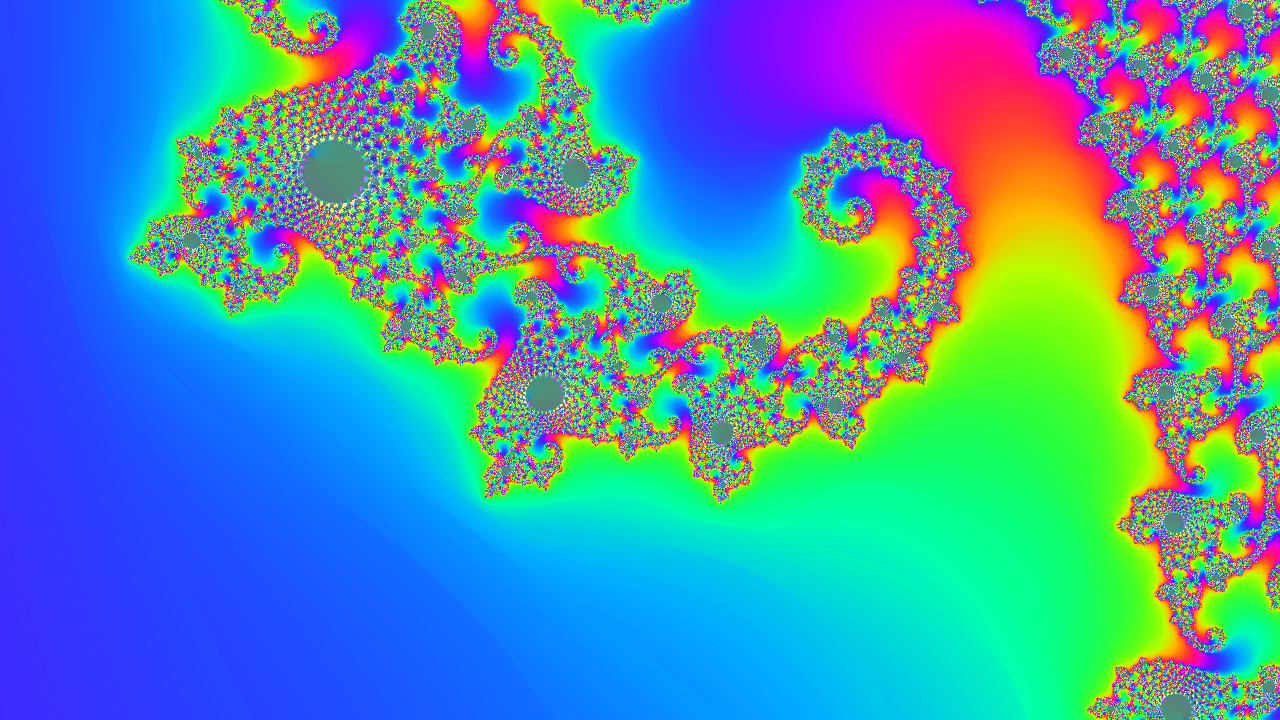
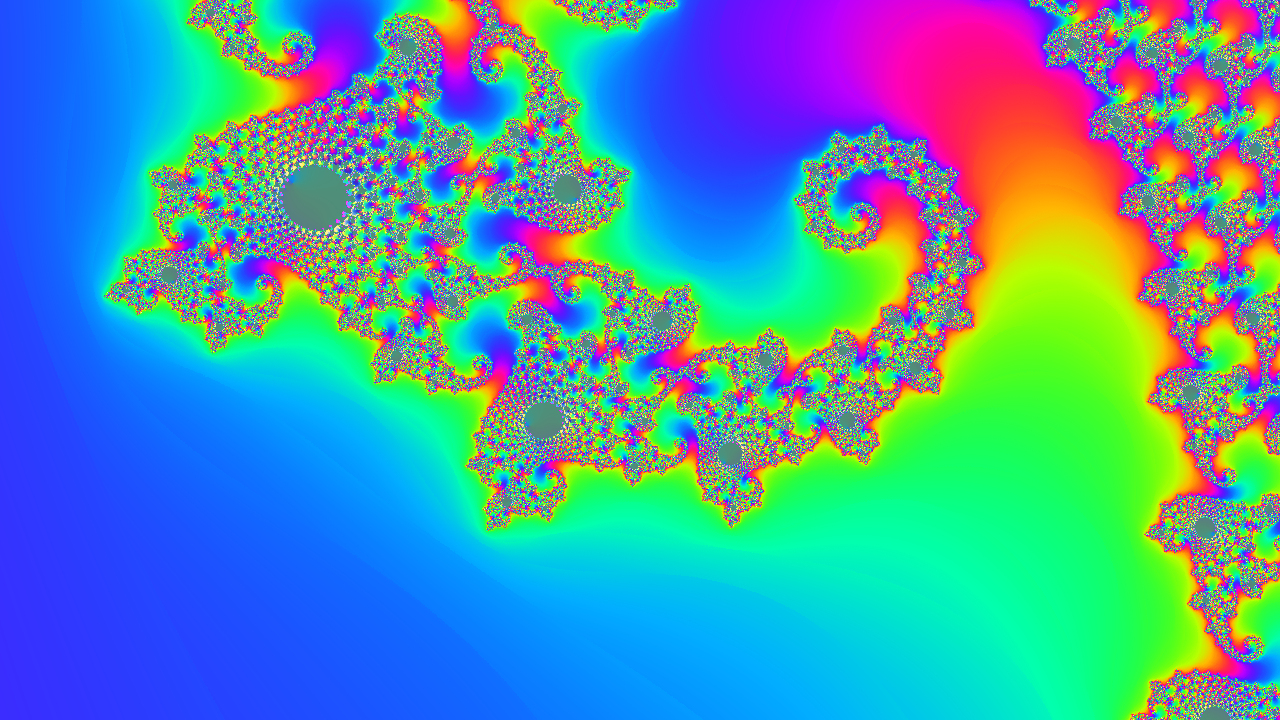
feat(cosmic-infinity): fluent 3-phase camera transition with straight zoom-out maintaining FOV and gentle overview realignment

diff --git a/src/shaders_cosmic_mandelbrot.rs b/src/shaders_cosmic_mandelbrot.rs
@@ -38,15 +38,16 @@ vec2 get_target_c(int id) {
 void main() {
     vec2 uv = (gl_FragCoord.xy - 0.5 * u_resolution) / min(u_resolution.x, u_resolution.y);
 
-    // Deep multi-target fractal zoom trajectory with staged dynamic rotation & continuous filament tracking:
-    // Dynamic 1x speed:
-    // Phase 1 (Zoom-In): 24.0s plunge (1x -> 64,000x), stopping gradually with C1 easing and multi-stage rotation speeds
-    // Phase 2 (Zoom-Out): 8.0s exponential acceleration with sigmoid easing return (64,000x -> 1x)
+    // Multi-target deep Mandelbrot fractal plunge & overview transition cycle:
     // Total cycle period = 32.0s
+    // Phase 1 (Zoom-In): 20.0s plunge (1x -> 64,000x) into c_curr, stopping smoothly with C1 easing and multi-stage rotation speeds
+    // Phase 2 (Zoom-Out): 7.0s straight zoom-out (64,000x -> 1x) strictly maintaining the FOV, center, and orientation of c_curr
+    // Phase 3 (Overview Alignment): 5.0s at 1x overview slowly and with ease adjusting rotation (3.4 -> 2*PI) and position (c_curr -> c_next)
     // Note: Zoom is calibrated to 64,000x to maintain absolute razor sharpness without FP16 block quantization rectangles!
-    const float T_IN = 24.0;
-    const float T_OUT = 8.0;
-    const float PERIOD = T_IN + T_OUT; // 32.0s
+    const float T_IN = 20.0;
+    const float T_OUT = 7.0;
+    const float T_ALIGN = 5.0;
+    const float PERIOD = T_IN + T_OUT + T_ALIGN; // 32.0s
 
     float cycle_idx = floor(u_time / PERIOD);
     float cycle_time = mod(u_time, PERIOD);
@@ -54,10 +55,16 @@ void main() {
     const float MAX_ZOOM = 64000.0;
     const float LN_MAX = 11.066638; // ln(64000.0)
 
+    // Curated catalog of dense boundary regions across the Mandelbrot set
+    int curr_id = int(mod(cycle_idx, 8.0));
+    int next_id = int(mod(cycle_idx + 1.0, 8.0));
+    vec2 c_curr = get_target_c(curr_id);
+    vec2 c_next = get_target_c(next_id);
+
     float zoom = 1.0;
     float rot_angle = 0.0;
     float s_norm = 0.0; // 0.0 (zoomed out) -> 1.0 (deepest zoom)
-    float g_out = 0.0;
+    vec2 center = c_curr;
 
     if (cycle_time < T_IN) {
         // --- PHASE 1: ZOOM-IN (Deep plunge, stopping gradually with easing) ---
@@ -83,7 +90,6 @@ void main() {
         float s_smooth = s_norm * s_norm * (3.0 - 2.0 * s_norm);
         
         // Staged harmonic oscillations that dynamically speed up, hold, and surge rotation:
-        // sin^2(pi*p) window guarantees zero velocity at start (p=0) and terminal stop (p=1)
         float window = sin(PI * p);
         float h_rot = (window * window) * (
             0.28 * sin(4.0 * PI * p) +
@@ -91,53 +97,43 @@ void main() {
             0.08 * sin(14.0 * PI * p)
         );
         rot_angle = s_smooth * 3.4 + h_rot;
-    } else {
-        // --- PHASE 2: ZOOM-OUT (Exponential acceleration with easing, cruise, easing stop) ---
+        center = c_curr;
+    } else if (cycle_time < T_IN + T_OUT) {
+        // --- PHASE 2: STRAIGHT ZOOM-OUT (Maintains FOV and orientation of populated place) ---
         float q = (cycle_time - T_IN) / T_OUT; // 0.0 -> 1.0
         
-        // Normalized logistic sigmoid:
-        const float k_sig = 7.5;
-        float x = k_sig * (2.0 * q - 1.0);
-        float sig = 1.0 / (1.0 + exp(-x));
-        const float sig0 = 0.00055278; // 1.0 / (1.0 + exp(7.5))
-        const float sig1 = 0.99944722; // 1.0 / (1.0 + exp(-7.5))
-        g_out = clamp((sig - sig0) / (sig1 - sig0), 0.0, 1.0);
+        // Quintic smootherstep easing (both 1st and 2nd derivatives zero at endpoints):
+        float g_out = q * q * q * (q * (q * 6.0 - 15.0) + 10.0);
         
-        // Fractional zoom remaining: starts at 1.0 (64,000x), ends at 0.0 (1x)
         s_norm = 1.0 - g_out;
         zoom = exp(s_norm * LN_MAX);
 
-        // Dynamic 360-degree turnaround spin synchronized with zoom-out easing:
-        // Starts at 3.4 rad, smoothly finishes at 6.2831853 (2*PI = 0.0 mod 2*PI)
-        rot_angle = 3.4 + g_out * (TWO_PI - 3.4);
-    }
-
-    // Curated catalog of dense boundary regions across the Mandelbrot set
-    // Seamless camera transit: Current target for this plunge, and next target for following plunge
-    int curr_id = int(mod(cycle_idx, 8.0));
-    int next_id = int(mod(cycle_idx + 1.0, 8.0));
-    vec2 c_curr = get_target_c(curr_id);
-    vec2 c_next = get_target_c(next_id);
-
-    // Continuous center tracking:
-    // During zoom-in, locked strictly on c_curr.
-    // During zoom-out, as camera pulls out wide (g_out >= 0.4), center smoothly glides from c_curr to c_next.
-    // By the time zoom-out finishes (g_out >= 0.92), center has already arrived at c_next with zero derivative.
-    // Thus when cycle loops to p=0, center is already at the new target with zero hop!
-    vec2 center;
-    if (cycle_time < T_IN) {
+        // Maintain fixed view and orientation of the populated place explored during zoom-in
+        rot_angle = 3.4;
         center = c_curr;
     } else {
-        float pan_t = smoothstep(0.40, 0.92, g_out);
-        center = mix(c_curr, c_next, pan_t);
+        // --- PHASE 3: OVERVIEW ALIGNMENT (Entirely zoomed out, slowly & smoothly align to next target) ---
+        float u = (cycle_time - (T_IN + T_OUT)) / T_ALIGN; // 0.0 -> 1.0
+        
+        s_norm = 0.0;
+        zoom = 1.0;
+
+        // Quintic smootherstep easing for ultra-fluent, gentle pan and rotation:
+        float e_align = u * u * u * (u * (u * 6.0 - 15.0) + 10.0);
+        
+        // Slowly and with ease adjust position from c_curr to c_next
+        center = mix(c_curr, c_next, e_align);
+
+        // Slowly and with ease adjust rotation from 3.4 to TWO_PI (smoothly aligns with upcoming zoom-in)
+        rot_angle = 3.4 + e_align * (TWO_PI - 3.4);
     }
 
-    // Continuous filament tracking:
-    // Steers gently around boundary filaments during deep zoom, and smoothly fades to zero at the zoom-out overview
-    float wander_weight = smoothstep(0.08, 0.40, s_norm);
+    // Organic filament tracking during deep zoom, smoothly retreating during zoom-out
+    // Dependent purely on s_norm so zooming in and zooming out retrace the exact same path
+    float wander_weight = smoothstep(0.12, 0.50, s_norm);
     vec2 boundary_wander = vec2(
-        sin(u_time * 0.55) * 0.12 + sin(u_time * 1.3) * 0.03,
-        cos(u_time * 0.48) * 0.12 + cos(u_time * 1.1) * 0.03
+        sin(s_norm * 4.5) * 0.14 + sin(s_norm * 9.0) * 0.04,
+        cos(s_norm * 4.0) * 0.14 + cos(s_norm * 8.5) * 0.04
     ) * (2.85 / zoom) * wander_weight;
 
     float ca = cos(rot_angle);

diff --git a/README.md b/README.md
@@ -27,7 +27,7 @@ Multi-act narrative journeys, organic Bezier SDF morphing, optical wavefront cro
 
 | [04 · Celestial Odyssey](https://tekk.github.io/valinfinite/celestial-odyssey/) | [05 · Matrix Saga](https://tekk.github.io/valinfinite/matrix-saga/) | [06 · Cosmic Infinity](https://tekk.github.io/valinfinite/cosmic-infinity/) | [07 · Vortex Metamorphosis](https://tekk.github.io/valinfinite/vortex-metamorphosis/) |
 | :---: | :---: | :---: | :---: |
-| <a href="https://tekk.github.io/valinfinite/celestial-odyssey/"><img src="screenshots/celestial_odyssey_mobile.gif?v=1.2.3" alt="Celestial Odyssey Mobile Preview" width="180"></a> | <a href="https://tekk.github.io/valinfinite/matrix-saga/"><img src="screenshots/matrix_saga_mobile.gif?v=1.2.3" alt="Matrix Saga Mobile Preview" width="180"></a> | <a href="https://tekk.github.io/valinfinite/cosmic-infinity/"><img src="screenshots/cosmic_infinity_mobile.gif?v=1.2.3" alt="Cosmic Infinity Mobile Preview" width="180"></a> | <a href="https://tekk.github.io/valinfinite/vortex-metamorphosis/"><img src="screenshots/vortex_metamorphosis_mobile.gif?v=1.2.3" alt="Vortex Metamorphosis Mobile Preview" width="180"></a> |
+| <a href="https://tekk.github.io/valinfinite/celestial-odyssey/"><img src="screenshots/celestial_odyssey_mobile.gif?v=1.2.3" alt="Celestial Odyssey Mobile Preview" width="180"></a> | <a href="https://tekk.github.io/valinfinite/matrix-saga/"><img src="screenshots/matrix_saga_mobile.gif?v=1.2.3" alt="Matrix Saga Mobile Preview" width="180"></a> | <a href="https://tekk.github.io/valinfinite/cosmic-infinity/"><img src="screenshots/cosmic_infinity_mobile.gif?v=1.2.3.1" alt="Cosmic Infinity Mobile Preview" width="180"></a> | <a href="https://tekk.github.io/valinfinite/vortex-metamorphosis/"><img src="screenshots/vortex_metamorphosis_mobile.gif?v=1.2.3" alt="Vortex Metamorphosis Mobile Preview" width="180"></a> |
 | 3-Act Wavefront Journey | Cyberpunk Infiltration | 64,000x Mandelbrot Plunge | 8-Phase Bezier Morphing |
 
 ---
@@ -160,21 +160,25 @@ $$\mathbf{C}_{\text{total}} = \sum_{k=1}^3 w_k(t) \mathbf{C}_k + \mathbf{C}_{\te
 ### 6. Cosmic Infinity (64,000x Multi-Target Deep Zoom & Continuous Filament Flow)
 
 <div align="center">
-  <img src="screenshots/cosmic_infinity_mobile.gif?v=1.2.3" alt="Cosmic Infinity Mobile Preview" width="220">
+  <img src="screenshots/cosmic_infinity_mobile.gif?v=1.2.3.1" alt="Cosmic Infinity Mobile Preview" width="220">
 </div>
 
-#### Dual-Phase Zoom Dynamics: Multi-Target Wandering, Multi-Stage Rotation & Relativistic Return
-The trajectory operates across a 32.0s macro cycle at 1x speed (24.0s deep plunge and 8.0s relativistic return). Each cycle dynamically locks onto a different dense boundary feature from a curated catalog (Seahorse Valley, Quad Spiral Dendrites, Triple Spiral Valleys, Satellite Mini-Brots, Elephant Valley boundary) with smooth target panning and continuous filament tracking, ensuring fluid and continuous camera orientation across all cycle boundaries without hops or jumps:
+#### Tri-Phase Zoom Dynamics: Straight Zoom-Out & Fluent Overview Realignment
+The trajectory operates across a 32.0s macro cycle at 1x speed divided into three distinct, continuous phases across a catalog of 8 dense boundary features (Seahorse Valley, Quad Spiral Dendrites, Triple Spiral Valleys, Satellite Mini-Brots, Elephant Valley boundary):
 
-$$\text{Zoom-In } (p \in [0, 1]): \quad s_{\text{in}}(p) = \begin{cases} v_0 \cdot p & p \le p_0 \\ 1 - a_{\text{dec}} (1 - p)^2 & p > p_0 \end{cases}, \quad \text{zoom}(p) = \exp(s_{\text{in}}(p) \cdot \ln s_{\max})$$
+1. **Phase 1: Deep Zoom-In Plunge ($t \in [0, 20\text{s}]$, $p \in [0, 1]$)**:
+   $$s_{\text{norm}}(p) = \begin{cases} v_0 \cdot p & p \le p_0 \\ 1 - a_{\text{dec}} (1 - p)^2 & p > p_0 \end{cases}, \quad \text{zoom}(p) = \exp(s_{\text{norm}}(p) \cdot \ln s_{\max})$$
+   Camera dives into feature $\mathbf{c}_{\text{curr}}$ up to $64{,}000\times$, bringing inward and rotational velocity to a complete $C^1$ halt at peak zoom ($p=1$).
 
-At peak zoom ($s_{\max} = 64{,}000\times$, calibrated to prevent floating-point precision block quantization rectangles), inward velocity $\left.\frac{ds_{\text{in}}}{dp}\right|_{p=1} = 0$, bringing the plunge to a complete stop. Rotation speeds dynamically surge and ease through multi-stage harmonic modulation. The camera then smoothly accelerates outward with a logistic sigmoid return and 360° turnaround spin:
+2. **Phase 2: Straight Zoom-Out ($t \in [20\text{s}, 27\text{s}]$, $q \in [0, 1]$)**:
+   $$g_{\text{out}}(q) = 6q^5 - 15q^4 + 10q^3, \quad s_{\text{norm}}(q) = 1 - g_{\text{out}}(q), \quad \text{zoom}(q) = \exp(s_{\text{norm}}(q) \cdot \ln s_{\max})$$
+   The camera pulls straight backward out of the populated feature maintaining its exact FOV, center ($\mathbf{c}_{\text{curr}}$), and orientation ($\theta = 3.4\text{ rad}$) without changing the view, expanding smoothly until fully zoomed out to the entire Mandelbrot set ($s_{\text{norm}} = 0, \text{zoom} = 1\times$).
 
-$$\text{Zoom-Out } (q \in [0, 1]): \quad g(q) = \frac{\sigma(k(2q - 1)) - \sigma(-k)}{\sigma(k) - \sigma(-k)}, \quad \text{zoom}(q) = \exp((1 - g(q)) \cdot \ln s_{\max})$$
-
-$$\sigma(x) = \frac{1}{1 + \exp(-x)}, \quad \theta_{\text{out}}(q) = \theta_0 + g(q) \cdot (2\pi - \theta_0)$$
-
-Rotation and viewport centering are $C^1$-continuous without hops at either turnaround point ($p=1$ or $q=1$).
+3. **Phase 3: Overview Realignment ($t \in [27\text{s}, 32\text{s}]$, $u \in [0, 1]$)**:
+   $$e_{\text{align}}(u) = 6u^5 - 15u^4 + 10u^3$$
+   $$\mathbf{center}(u) = (1 - e_{\text{align}}(u))\mathbf{c}_{\text{curr}} + e_{\text{align}}(u)\mathbf{c}_{\text{next}}$$
+   $$\theta(u) = 3.4 + e_{\text{align}}(u) \cdot (2\pi - 3.4)$$
+   Holding wide at $1\times$ overview, the viewport slowly and with ease glides its position from $\mathbf{c}_{\text{curr}}$ to $\mathbf{c}_{\text{next}}$ and rotates into alignment with zero terminal velocity, smoothly initiating the next plunge with zero hop.
 
 ---
 
